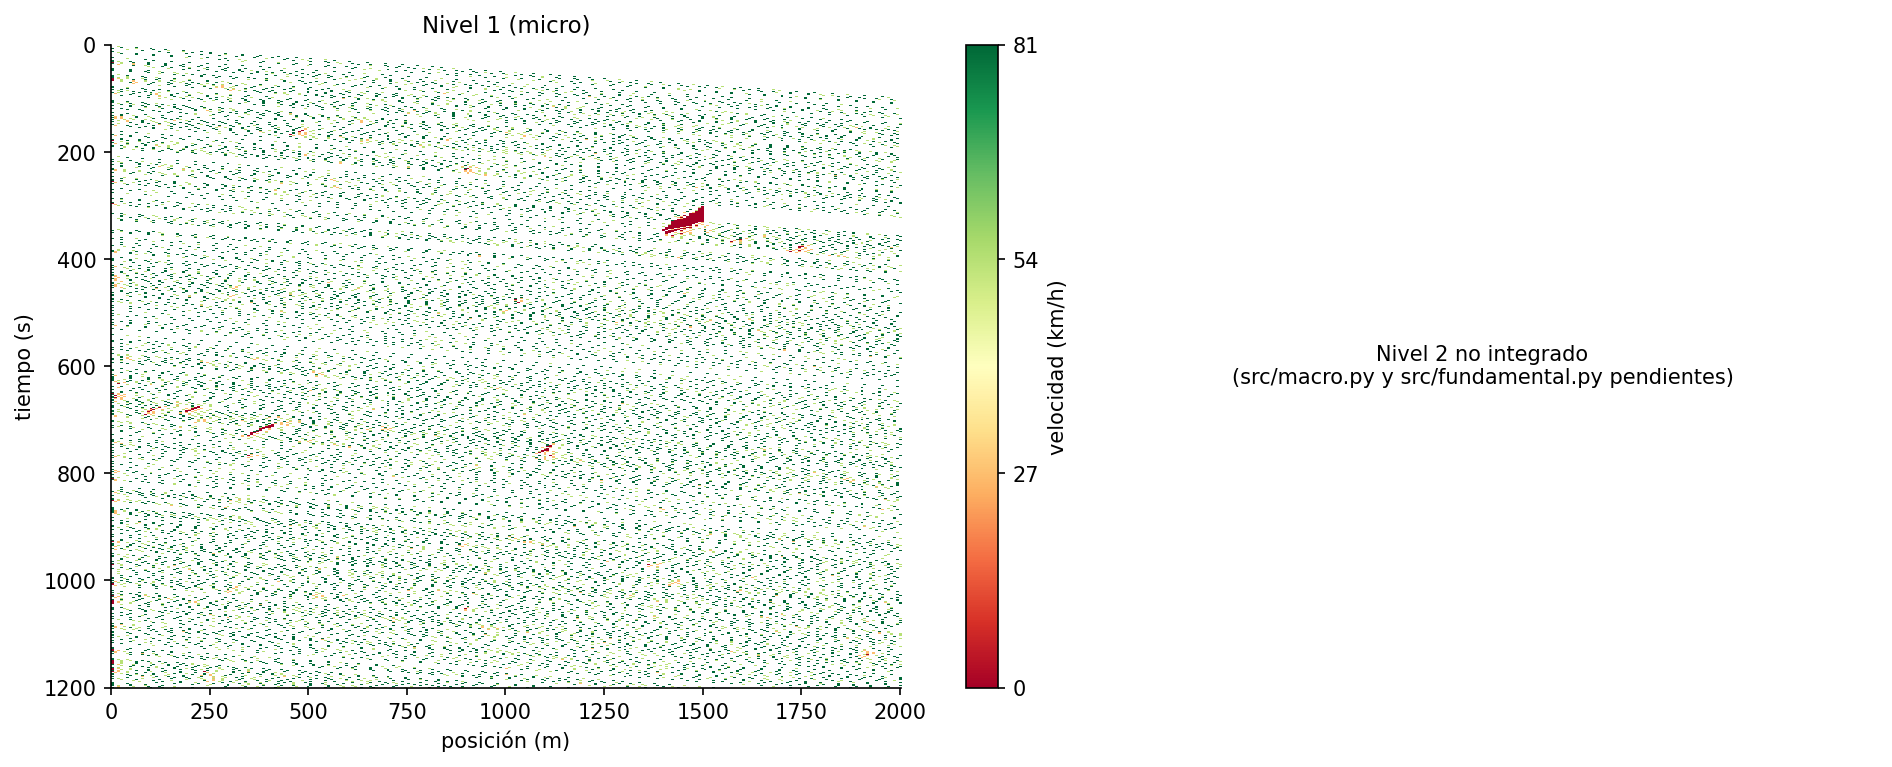
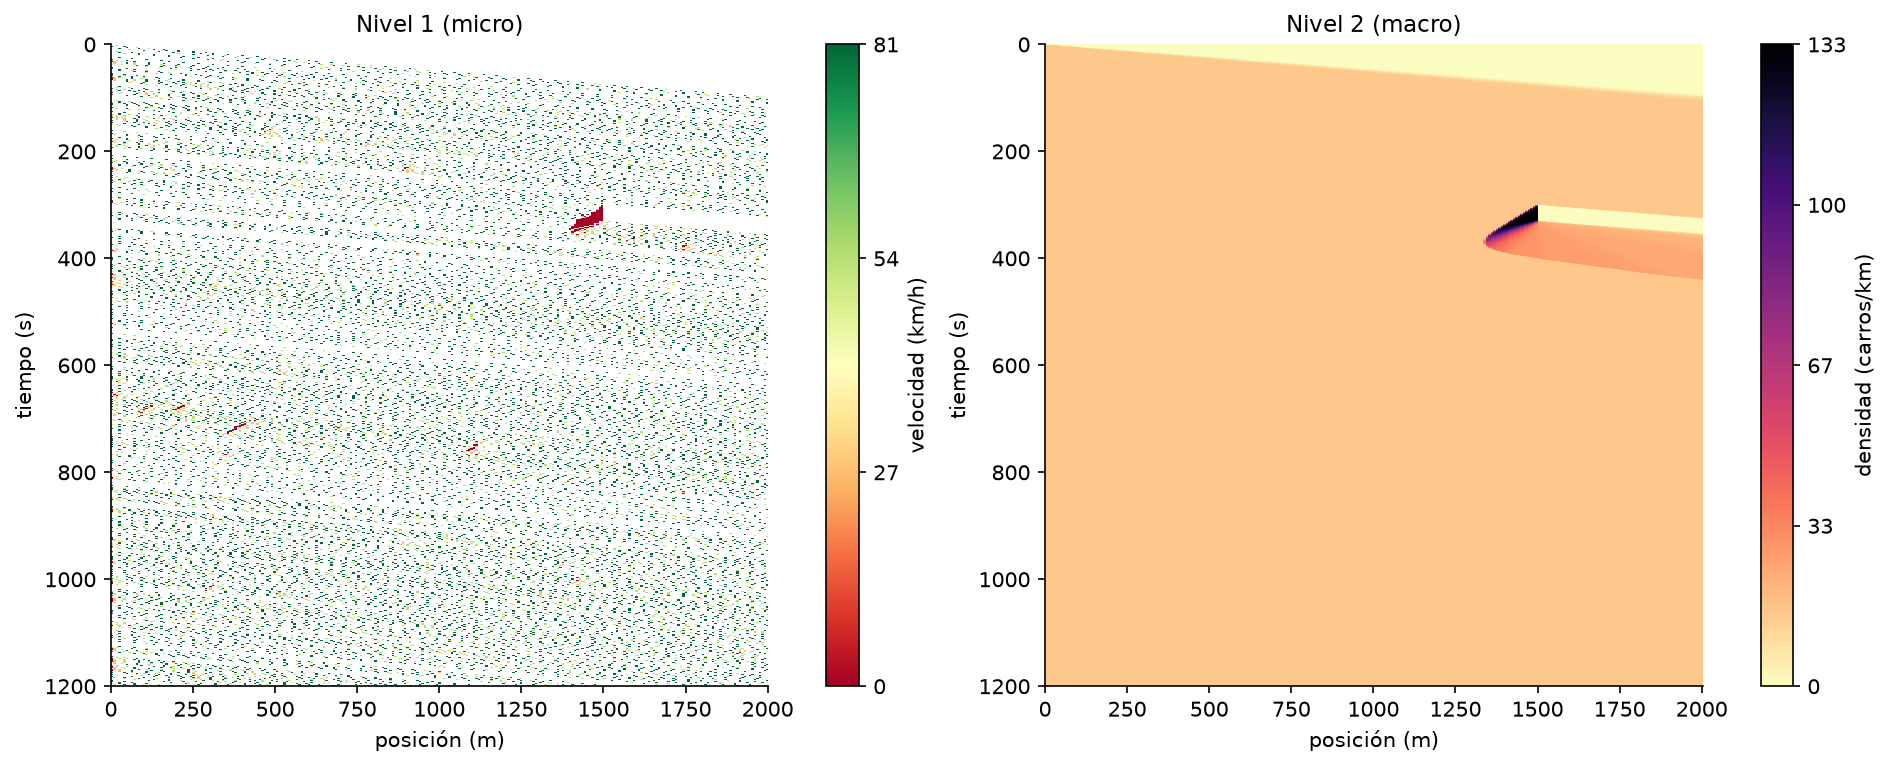
feat: agrega la parte macro de E3

diff --git a/experiments/e3_bus_stop.py b/experiments/e3_bus_stop.py
@@ -18,7 +18,7 @@ from matplotlib.animation import writers
 
 from src.micro import Obstacle, run_open
 from src.units import cells_to_m, q_to_veh_h, v_to_kmh
-from src.viz import animate_road, plot_spacetime
+from src.viz import animate_road, plot_density_map, plot_spacetime
 
 E1_PATH = Path("results/e1/fundamental_p0.25_v3.csv")
 CALIBRATION_PATH = Path("results/calibracion_alpha.csv")
@@ -342,9 +342,8 @@ def main() -> None:
             axes[1].text(0.5, 0.5, "Nivel 2 no integrado\n(src/macro.py y src/fundamental.py pendientes)",
                          ha="center", va="center")
         else:
-            image = axes[1].imshow(representative_macro, aspect="auto", origin="upper", cmap="viridis")
-            axes[1].set(title="Nivel 2 (macro)", xlabel="posición (celda)", ylabel="paso numérico")
-            fig.colorbar(image, ax=axes[1], label="densidad (vehículos/celda)")
+            macro_dt = macro_contract[3]
+            plot_density_map(representative_macro, 1.0, macro_dt, ax=axes[1], title="Nivel 2 (macro)")
         fig.savefig(OUT / "comparacion_espaciotiempo_micro_macro.png")
         plt.close(fig)
 
